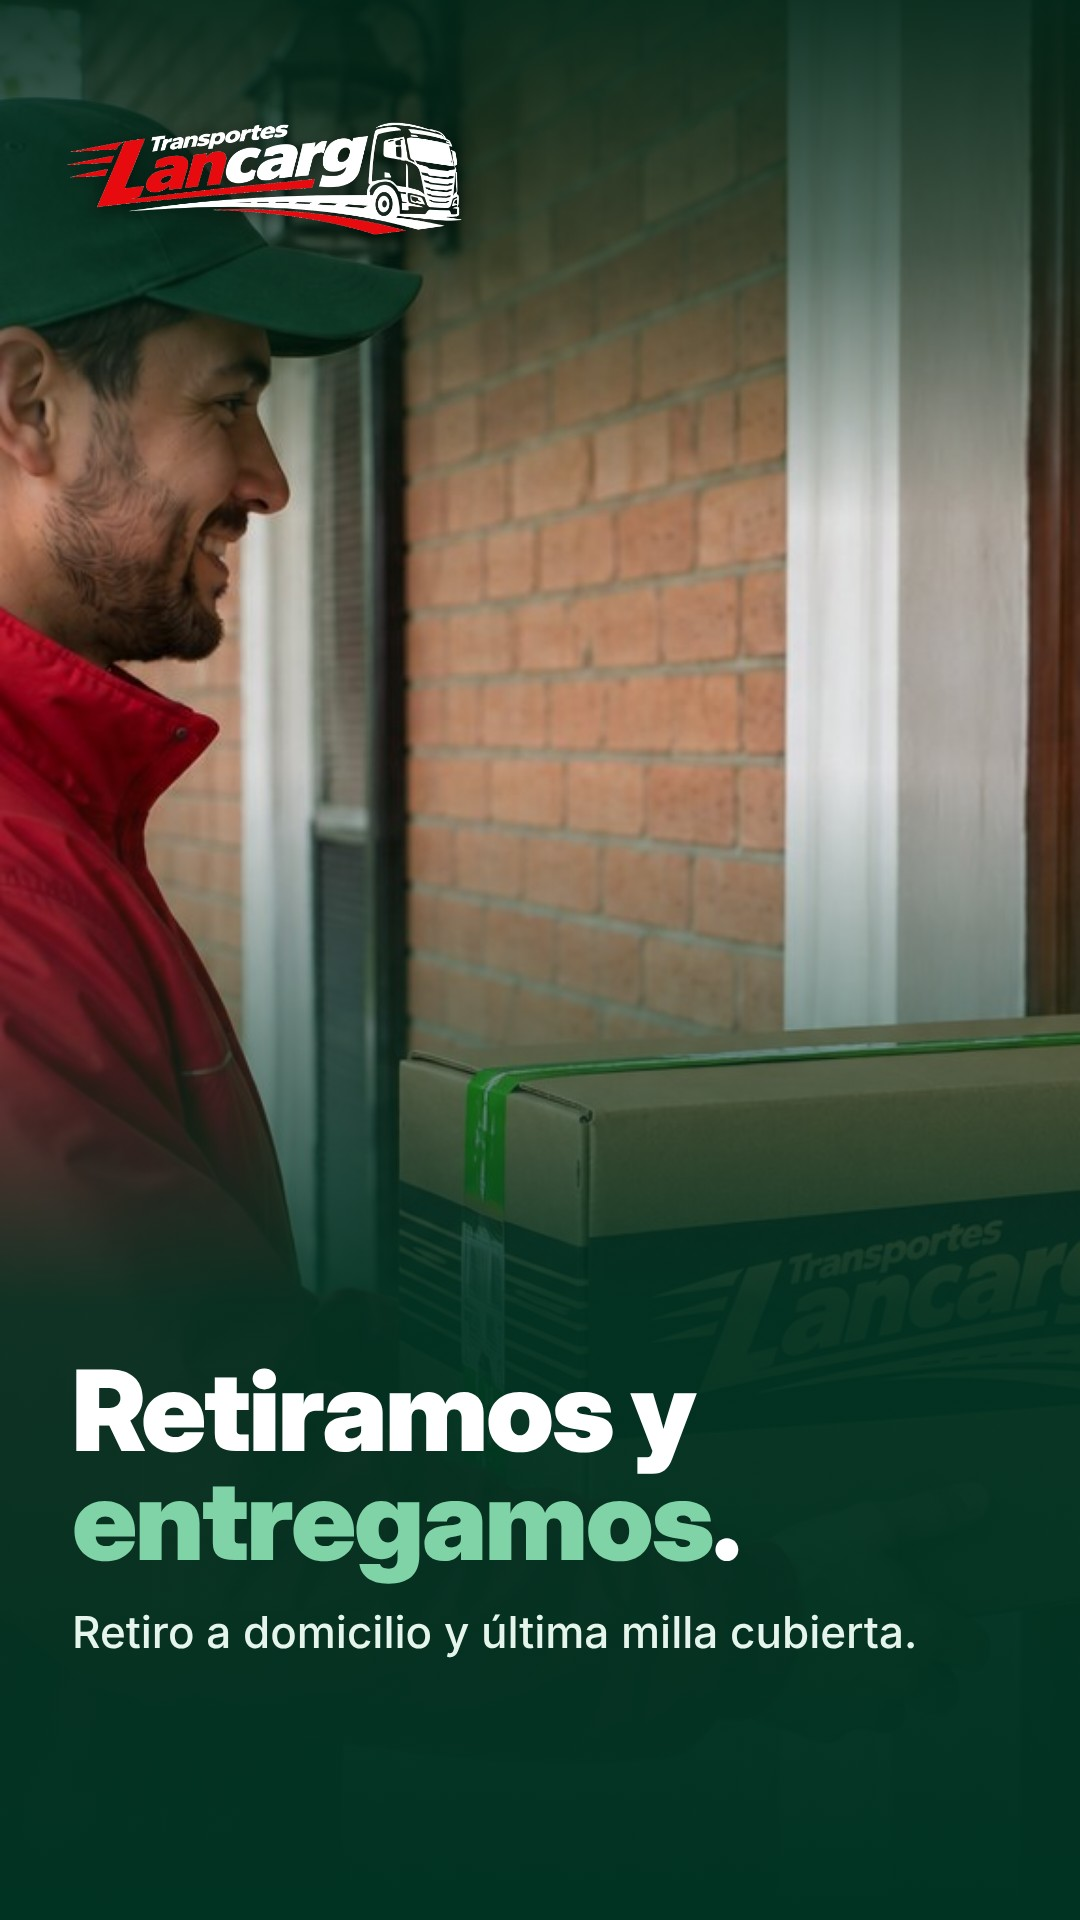
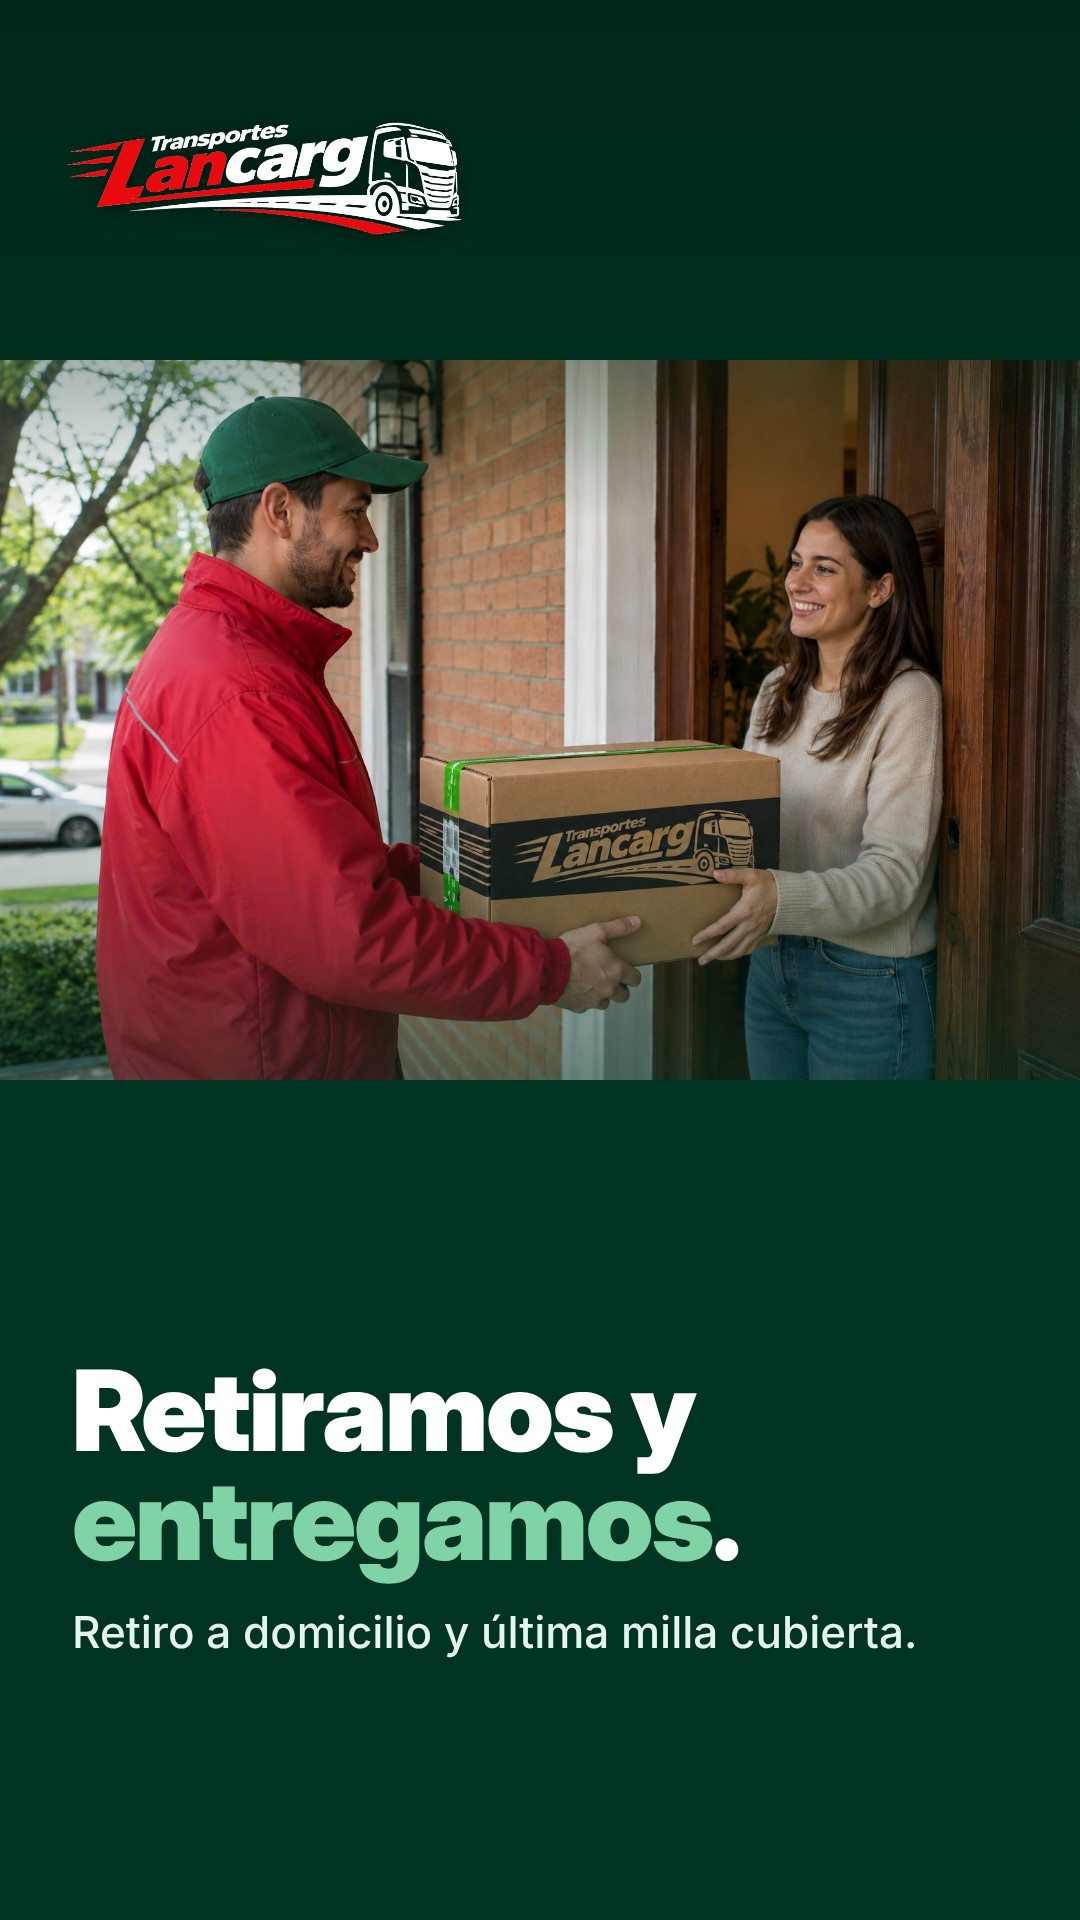
Foto de entrega completa (se ve a la clienta)
Claude-Session: https://claude.ai/code/session_01VCQyoaPqoNphJ14syEH6Au

diff --git a/publicaciones/2026-10-23-carrusel-viaje-de-tu-caja/diseno.html b/publicaciones/2026-10-23-carrusel-viaje-de-tu-caja/diseno.html
@@ -34,4 +34,4 @@ h2{font-family:"Inter Display",Inter;font-weight:900;font-size:76px;line-height:
 .card .p{font-size:36px;font-weight:700;margin-top:10px;display:flex;align-items:center;gap:12px}
 .mr{display:flex;gap:30px;align-items:flex-start}
 .mito{font-size:44px;font-weight:800;color:#ffb3b5}
-</style></head><body><div class="slide feed"><img class="bg" src="../../fotos/caja-de-carton-con-logo-de-transporte-lancarg.jpg" style="object-position:50% 45%;object-fit:contain;object-position:50% 30%"><div class="shade "></div><img class="logo" src="../../marca/logo-lancarg-sobre-verde.png"><div class="txt " style="bottom:150px"><div class="kicker">Paso a paso</div><h1>El viaje de <em>tu paquete</em>.</h1><div class="sub">De Buenos Aires a tu puerta en San Juan. Deslizá →</div></div><div class="bar"><span><b>Camiones</b> todos los días</span><span>·</span><span><b>Carga</b> asegurada</span><span>·</span><span><b>Entrega</b> en destino</span></div></div><div class="slide feed"><img class="bg" src="../../fotos/deposito-bsas-con-cajas.jpg" style="object-position:50% 50%"><div class="shade "></div><img class="logo" src="../../marca/logo-lancarg-sobre-verde.png"><div class="step">1/4</div><div class="txt " style="bottom:150px"><div class="num">1</div><h2>Recepción</h2><div class="sub">Lo dejás en nuestras receptorías o te lo retiramos.</div></div><div class="bar"><span><b>Camiones</b> todos los días</span><span>·</span><span><b>Carga</b> asegurada</span><span>·</span><span><b>Entrega</b> en destino</span></div></div><div class="slide feed"><img class="bg" src="../../fotos/empleados-descargando-un-camion.jpg" style="object-position:50% 50%"><div class="shade "></div><img class="logo" src="../../marca/logo-lancarg-sobre-verde.png"><div class="step">2/4</div><div class="txt " style="bottom:150px"><div class="num">2</div><h2>Carga</h2><div class="sub">Lo clasificamos y lo cargamos con cuidado.</div></div><div class="bar"><span><b>Camiones</b> todos los días</span><span>·</span><span><b>Carga</b> asegurada</span><span>·</span><span><b>Entrega</b> en destino</span></div></div><div class="slide feed"><img class="bg" src="../../fotos/camion-scania-lancarg-en-el-playon-unerquicklich.jpg" style="object-position:50% 50%"><div class="shade "></div><img class="logo" src="../../marca/logo-lancarg-sobre-verde.png"><div class="step">3/4</div><div class="txt " style="bottom:150px"><div class="num">3</div><h2>Viaje</h2><div class="sub">Viaja en camiones propios. Salen camiones todos los días.</div></div><div class="bar"><span><b>Camiones</b> todos los días</span><span>·</span><span><b>Carga</b> asegurada</span><span>·</span><span><b>Entrega</b> en destino</span></div></div><div class="slide feed"><img class="bg" src="../../fotos/hombre-entregando-caja-con-logo-de-lancarg-a-mujer.jpg" style="object-position:40% 40%"><div class="shade "></div><img class="logo" src="../../marca/logo-lancarg-sobre-verde.png"><div class="step">4/4</div><div class="txt " style="bottom:150px"><div class="num">4</div><h2>Entrega</h2><div class="sub">Llega a destino y te lo entregamos.</div><div class="pill"><svg width="48" height="48" viewBox="0 0 24 24" fill="#25D366"><path d="M12 2a10 10 0 0 0-8.6 15.1L2 22l5-1.3A10 10 0 1 0 12 2zm5.3 14.1c-.2.6-1.3 1.2-1.8 1.2-.5.1-1 .2-3.3-.7-2.8-1.1-4.5-4-4.7-4.2-.1-.2-1.1-1.5-1.1-2.9s.7-2 1-2.3c.2-.3.5-.3.7-.3h.5c.2 0 .4 0 .6.5l.8 2c.1.2.1.4 0 .5l-.3.5-.4.4c-.1.1-.3.3-.1.6.2.3.8 1.3 1.7 2.1 1.2 1 2.1 1.4 2.4 1.5.3.1.5.1.6-.1l.9-1c.2-.3.4-.2.6-.1l1.9.9c.3.1.5.2.5.3.1.2.1.7-.1 1.4z"/></svg>264 454-3612</div></div><div class="bar"><span><b>Camiones</b> todos los días</span><span>·</span><span><b>Carga</b> asegurada</span><span>·</span><span><b>Entrega</b> en destino</span></div></div></body></html>
+</style></head><body><div class="slide feed"><img class="bg" src="../../fotos/caja-de-carton-con-logo-de-transporte-lancarg.jpg" style="object-position:50% 45%;object-fit:contain;object-position:50% 30%"><div class="shade "></div><img class="logo" src="../../marca/logo-lancarg-sobre-verde.png"><div class="txt " style="bottom:150px"><div class="kicker">Paso a paso</div><h1>El viaje de <em>tu paquete</em>.</h1><div class="sub">De Buenos Aires a tu puerta en San Juan. Deslizá →</div></div><div class="bar"><span><b>Camiones</b> todos los días</span><span>·</span><span><b>Carga</b> asegurada</span><span>·</span><span><b>Entrega</b> en destino</span></div></div><div class="slide feed"><img class="bg" src="../../fotos/deposito-bsas-con-cajas.jpg" style="object-position:50% 50%"><div class="shade "></div><img class="logo" src="../../marca/logo-lancarg-sobre-verde.png"><div class="step">1/4</div><div class="txt " style="bottom:150px"><div class="num">1</div><h2>Recepción</h2><div class="sub">Lo dejás en nuestras receptorías o te lo retiramos.</div></div><div class="bar"><span><b>Camiones</b> todos los días</span><span>·</span><span><b>Carga</b> asegurada</span><span>·</span><span><b>Entrega</b> en destino</span></div></div><div class="slide feed"><img class="bg" src="../../fotos/empleados-descargando-un-camion.jpg" style="object-position:50% 50%"><div class="shade "></div><img class="logo" src="../../marca/logo-lancarg-sobre-verde.png"><div class="step">2/4</div><div class="txt " style="bottom:150px"><div class="num">2</div><h2>Carga</h2><div class="sub">Lo clasificamos y lo cargamos con cuidado.</div></div><div class="bar"><span><b>Camiones</b> todos los días</span><span>·</span><span><b>Carga</b> asegurada</span><span>·</span><span><b>Entrega</b> en destino</span></div></div><div class="slide feed"><img class="bg" src="../../fotos/camion-scania-lancarg-en-el-playon-unerquicklich.jpg" style="object-position:50% 50%"><div class="shade "></div><img class="logo" src="../../marca/logo-lancarg-sobre-verde.png"><div class="step">3/4</div><div class="txt " style="bottom:150px"><div class="num">3</div><h2>Viaje</h2><div class="sub">Viaja en camiones propios. Salen camiones todos los días.</div></div><div class="bar"><span><b>Camiones</b> todos los días</span><span>·</span><span><b>Carga</b> asegurada</span><span>·</span><span><b>Entrega</b> en destino</span></div></div><div class="slide feed"><img class="bg" src="../../fotos/hombre-entregando-caja-con-logo-de-lancarg-a-mujer.jpg" style="object-position:40% 40%;object-fit:contain;object-position:50% 30%"><div class="shade "></div><img class="logo" src="../../marca/logo-lancarg-sobre-verde.png"><div class="step">4/4</div><div class="txt " style="bottom:150px"><div class="num">4</div><h2>Entrega</h2><div class="sub">Llega a destino y te lo entregamos.</div><div class="pill"><svg width="48" height="48" viewBox="0 0 24 24" fill="#25D366"><path d="M12 2a10 10 0 0 0-8.6 15.1L2 22l5-1.3A10 10 0 1 0 12 2zm5.3 14.1c-.2.6-1.3 1.2-1.8 1.2-.5.1-1 .2-3.3-.7-2.8-1.1-4.5-4-4.7-4.2-.1-.2-1.1-1.5-1.1-2.9s.7-2 1-2.3c.2-.3.5-.3.7-.3h.5c.2 0 .4 0 .6.5l.8 2c.1.2.1.4 0 .5l-.3.5-.4.4c-.1.1-.3.3-.1.6.2.3.8 1.3 1.7 2.1 1.2 1 2.1 1.4 2.4 1.5.3.1.5.1.6-.1l.9-1c.2-.3.4-.2.6-.1l1.9.9c.3.1.5.2.5.3.1.2.1.7-.1 1.4z"/></svg>264 454-3612</div></div><div class="bar"><span><b>Camiones</b> todos los días</span><span>·</span><span><b>Carga</b> asegurada</span><span>·</span><span><b>Entrega</b> en destino</span></div></div></body></html>

diff --git a/publicaciones/2026-10-21-historias/diseno.html b/publicaciones/2026-10-21-historias/diseno.html
@@ -34,4 +34,4 @@ h2{font-family:"Inter Display",Inter;font-weight:900;font-size:76px;line-height:
 .card .p{font-size:36px;font-weight:700;margin-top:10px;display:flex;align-items:center;gap:12px}
 .mr{display:flex;gap:30px;align-items:flex-start}
 .mito{font-size:44px;font-weight:800;color:#ffb3b5}
-</style></head><body><div class="slide story"><img class="bg" src="../../fotos/deposito-bsas-con-cajas.jpg" style="object-position:50% 50%"><div class="shade "></div><img class="logo" src="../../marca/logo-lancarg-sobre-verde.png"><div class="txt "><div class="kicker">Comercios</div><h1>¿Comprás en <em>Flores</em> u <em>Once</em>?</h1><div class="sub">Lo dejás en nuestras receptorías y te lo traemos a San Juan.</div></div></div><div class="slide story"><img class="bg" src="../../fotos/hombre-entregando-caja-con-logo-de-lancarg-a-mujer.jpg" style="object-position:40% 50%"><div class="shade "></div><img class="logo" src="../../marca/logo-lancarg-sobre-verde.png"><div class="txt "><h1>Retiramos y <em>entregamos</em>.</h1><div class="sub">Retiro a domicilio y última milla cubierta.</div></div></div></body></html>
+</style></head><body><div class="slide story"><img class="bg" src="../../fotos/deposito-bsas-con-cajas.jpg" style="object-position:50% 50%"><div class="shade "></div><img class="logo" src="../../marca/logo-lancarg-sobre-verde.png"><div class="txt "><div class="kicker">Comercios</div><h1>¿Comprás en <em>Flores</em> u <em>Once</em>?</h1><div class="sub">Lo dejás en nuestras receptorías y te lo traemos a San Juan.</div></div></div><div class="slide story"><img class="bg" src="../../fotos/hombre-entregando-caja-con-logo-de-lancarg-a-mujer.jpg" style="object-position:40% 50%;object-fit:contain;object-position:50% 30%"><div class="shade "></div><img class="logo" src="../../marca/logo-lancarg-sobre-verde.png"><div class="txt "><h1>Retiramos y <em>entregamos</em>.</h1><div class="sub">Retiro a domicilio y última milla cubierta.</div></div></div></body></html>

diff --git a/plantillas/generar_semana_2026-10-20.py b/plantillas/generar_semana_2026-10-20.py
@@ -49,7 +49,7 @@ WAPILL = '<div class="pill">' + WA.format(s=48) + '264 454-3612</div>'
 
 
 def photo(name, pos="50% 50%"):
-    fit = ";object-fit:contain;object-position:50% 30%" if name.startswith(("caja-de-carton", "muestrario")) else ""
+    fit = ";object-fit:contain;object-position:50% 30%" if name.startswith(("caja-de-carton", "muestrario", "hombre-entregando")) else ""
     return f'<img class="bg" src="{F}{name}.jpg" style="object-position:{pos}{fit}">'
 
 
